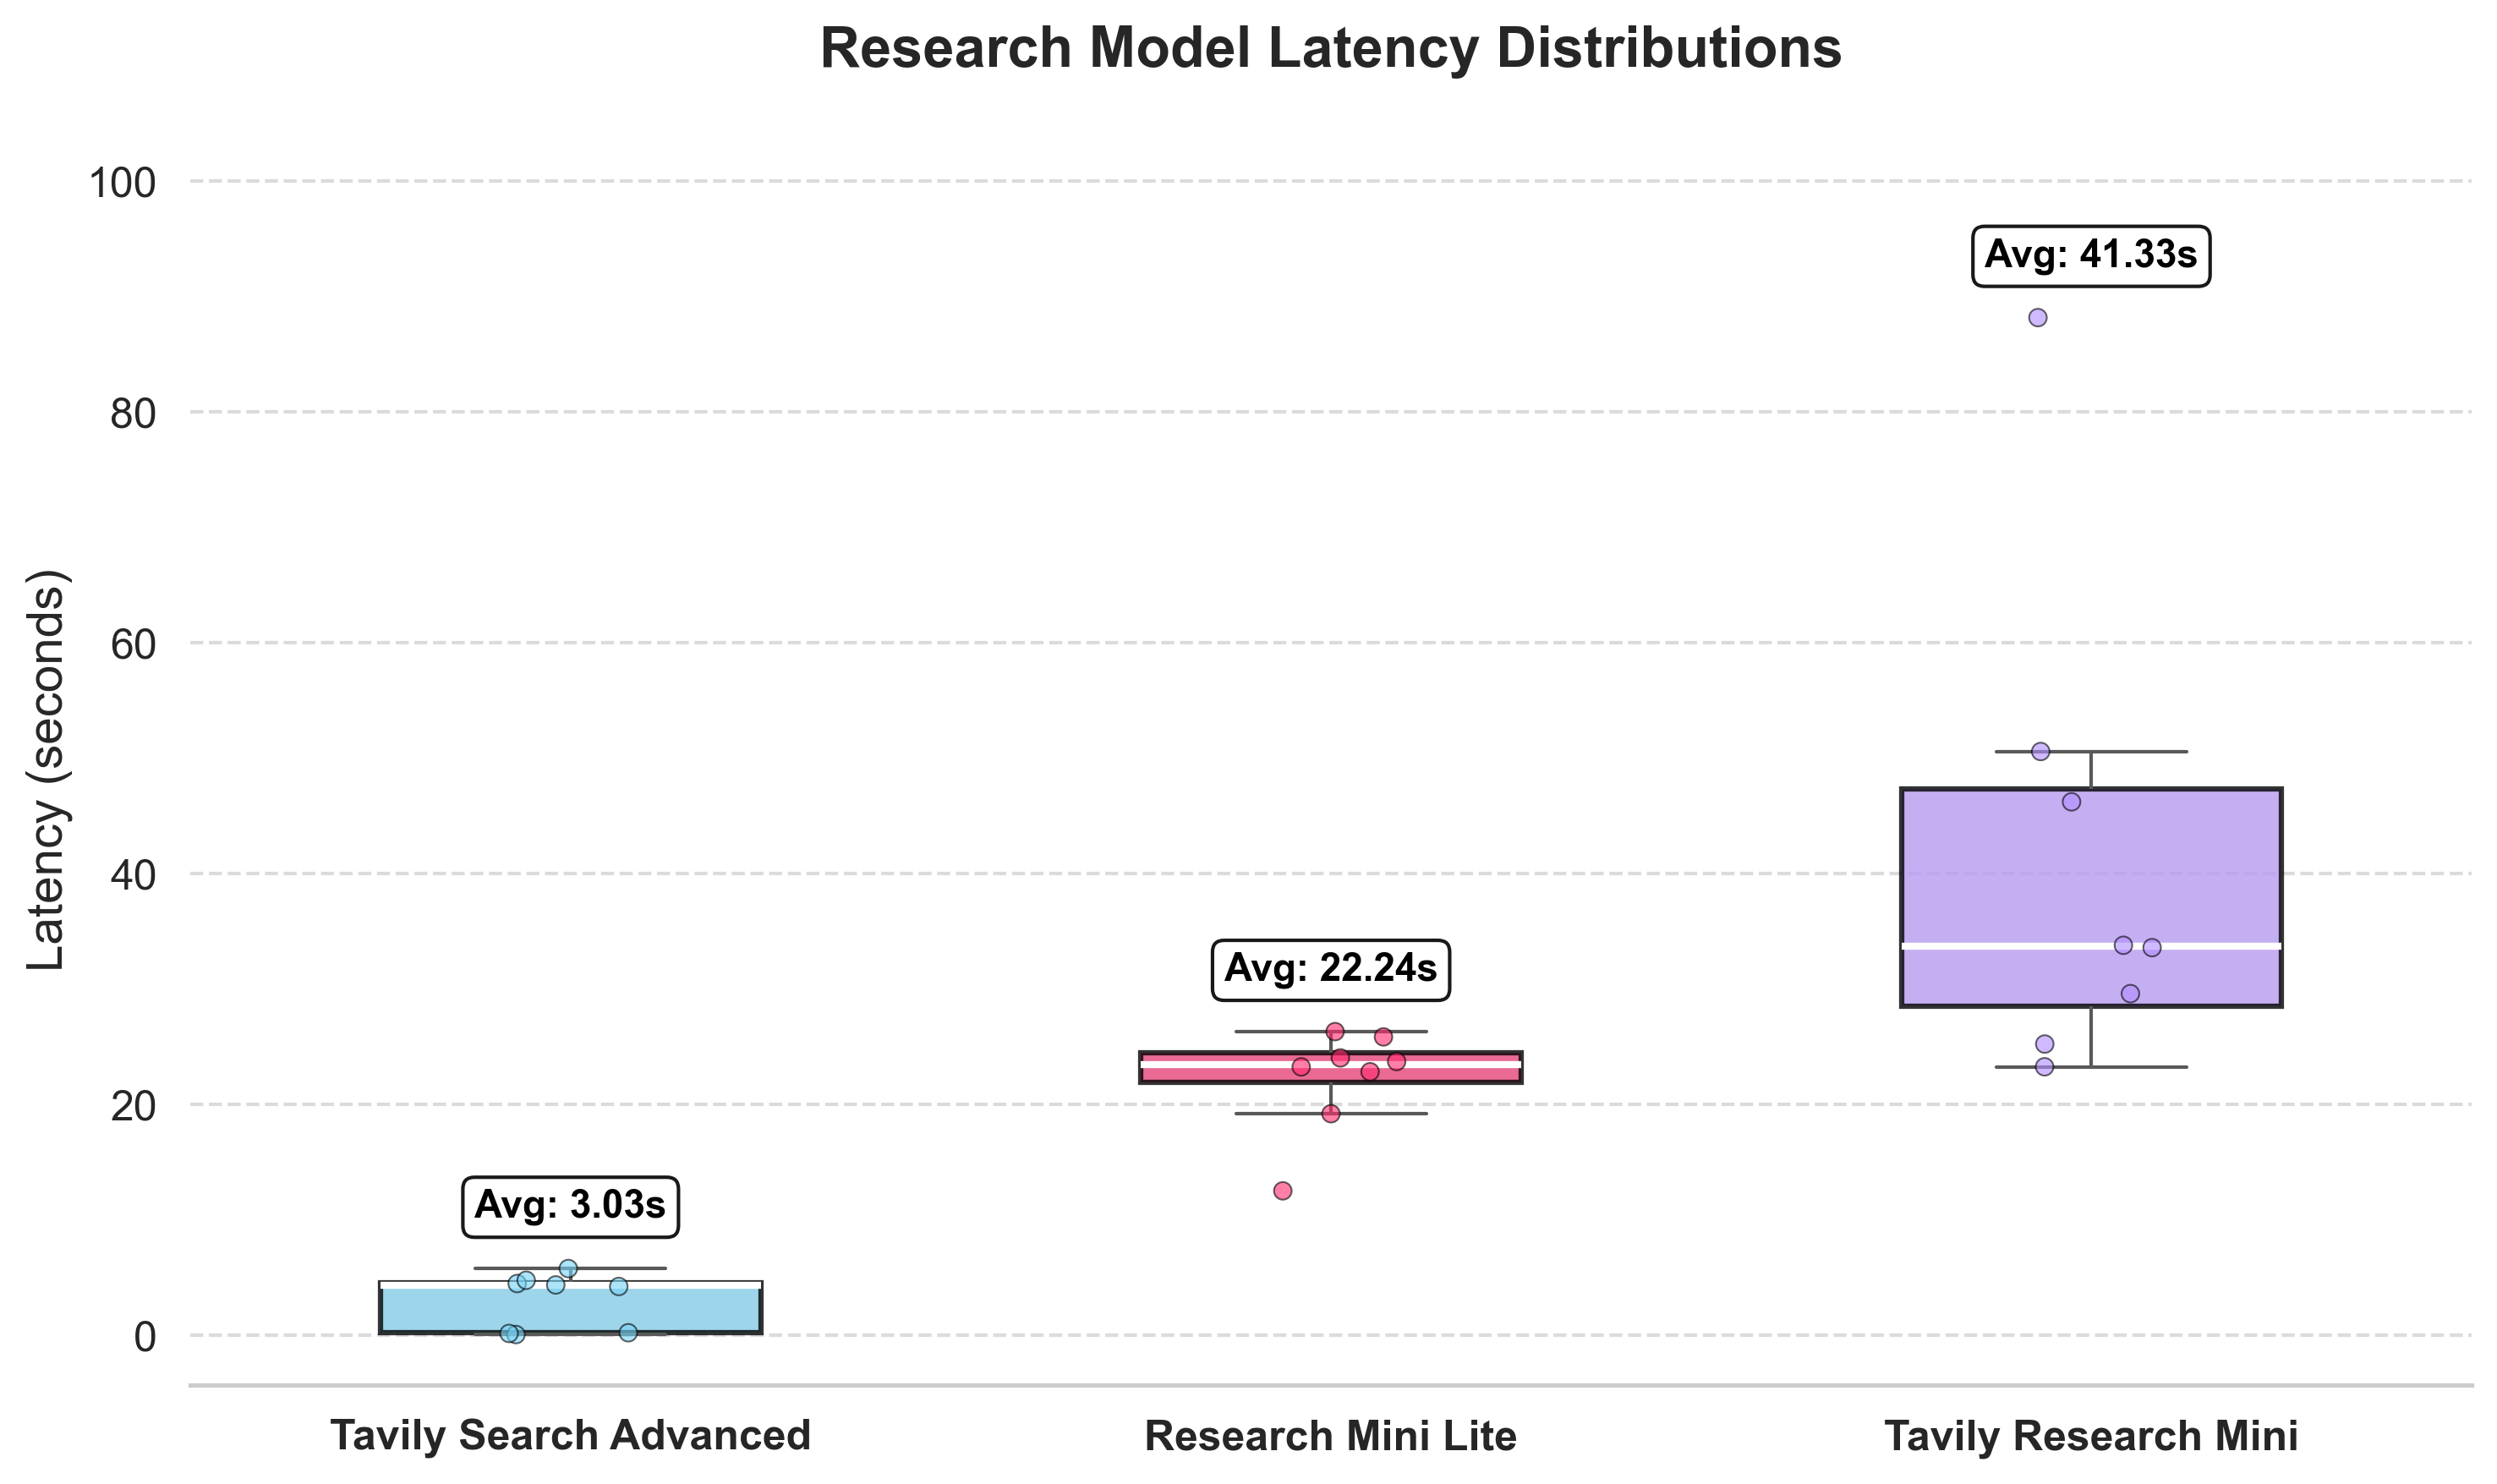
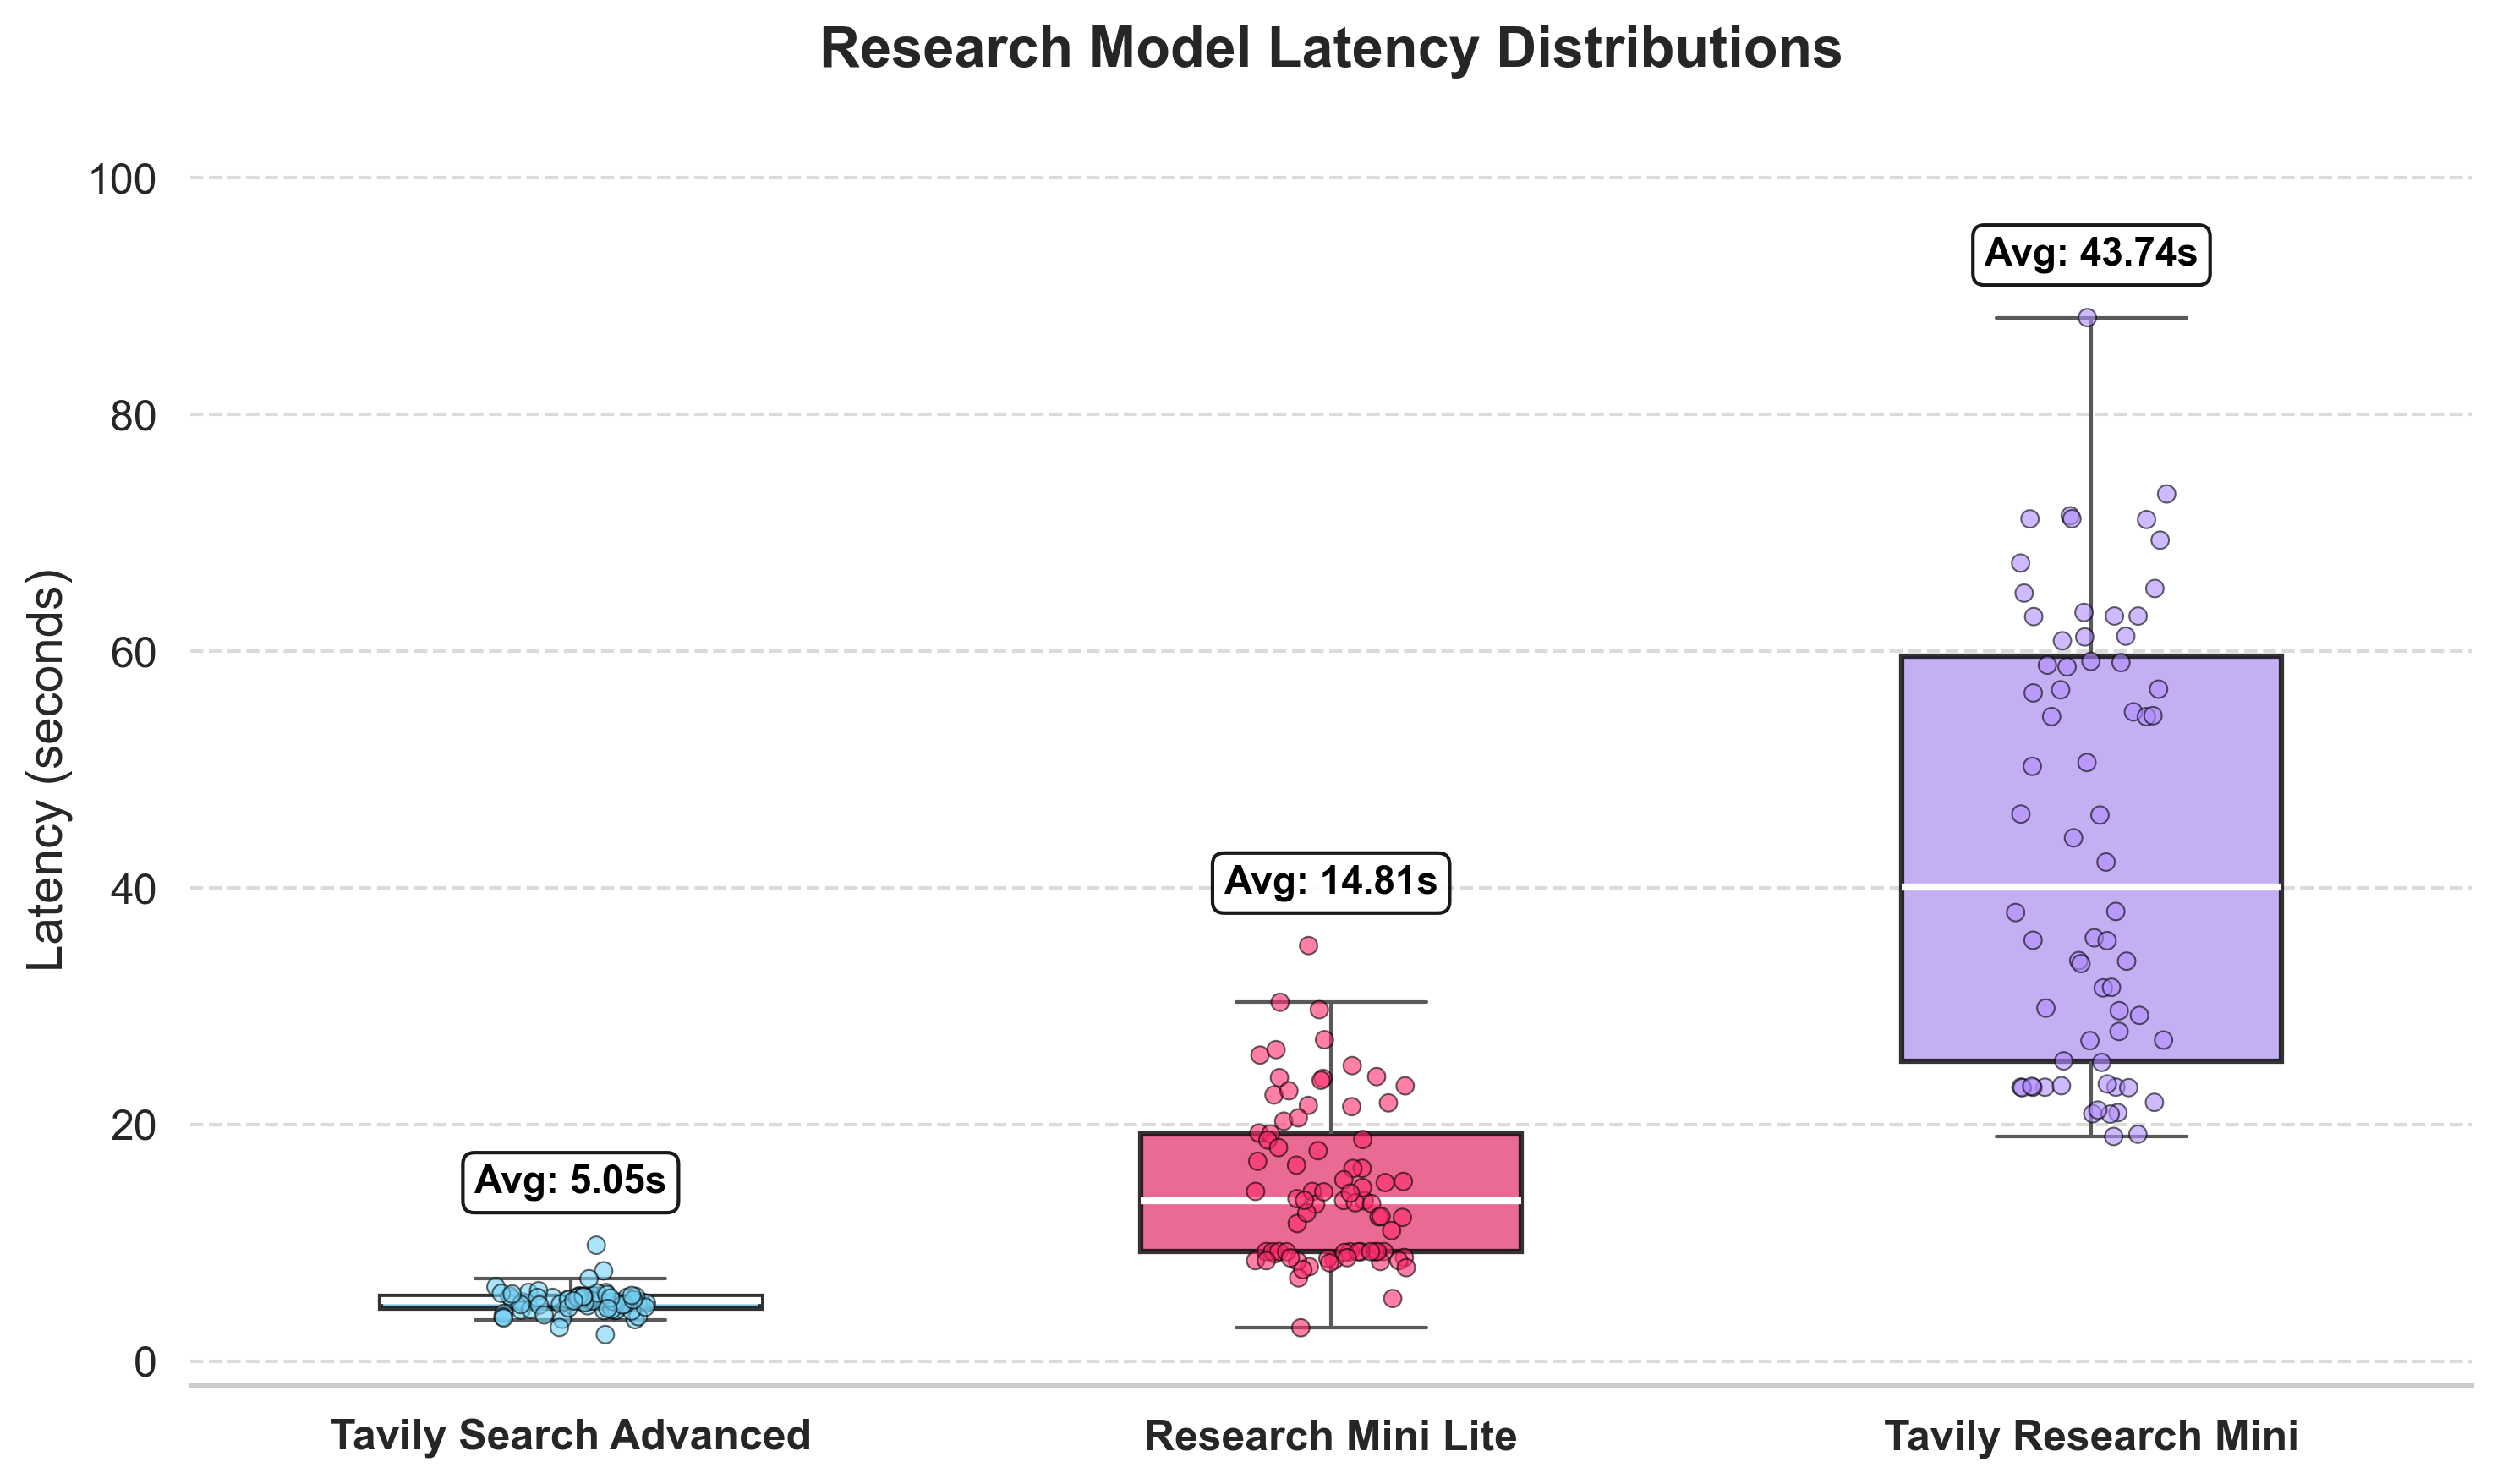
docs: add technical statement and update latency plotting utility with automated file discovery and data filtering

diff --git a/plot_latencies.py b/plot_latencies.py
@@ -5,12 +5,7 @@ import matplotlib.pyplot as plt
 import seaborn as sns
 import pandas as pd
 
-files = [
-    "eval-reports/2026-06-09_23-58-22.json",
-    "eval-reports/2026-06-10_00-00-17.json",
-    "eval-reports/2026-06-10_00-02-33.json",
-    "eval-reports/2026-06-10_09-43-06.json"
-]
+files = glob.glob("eval-reports/*.json")
 
 data_records = []
 
@@ -21,7 +16,8 @@ for file in files:
             for res in item.get('results', []):
                 provider = res.get('provider')
                 latency = res.get('latency_seconds')
-                if provider and latency is not None:
+                # Filter out 0-second points (failed or cached runs)
+                if provider and latency is not None and latency > 1.0:
                     data_records.append({
                         "Model": provider,
                         "Latency (s)": latency

diff --git a/TECHNICAL_STATEMENT.md b/TECHNICAL_STATEMENT.md
@@ -1,0 +1,18 @@
+# Motivation & Approach
+
+## Thought Process
+While building the [RAG Research Extension](https://github.com/RobertTylman/RAG-Research-Extension), the need for a balanced research pipeline became apparent. I identified two critical gaps in the existing ecosystem:
+
+1. **Research Mini is too slow for conversational UI**: While incredibly thorough, its standard execution time (30s–180s) introduces too much friction for continuous, interactive use.
+2. **Search Advanced is too thin for complex schemas**: The standard fast search endpoint (~1–5s) lacks the multi-hop reasoning necessary to synthesize diverse sources and return deeply structured reports.
+
+## The Thesis
+Customers want deeply structured outputs and multi-hop reasoning capabilities, but they do not want to pay the high latency and cost penalties associated with a full Research Mini run.
+
+## The Solution
+A middle-ground product: **Tavily Research Mini Lite**. 
+
+## Value Created
+By compiling a bounded LangGraph agent loop that uses parallelized, single-hop Tavily `/search` calls and a post-hoc structured extraction, Research Mini Lite hits the "goldilocks zone." 
+
+From both a technical and business perspective, it delivers synthesized, multi-hop, and structured research outputs while targeting a **~15 second** latency. This achieves the perfect midpoint between existing products, empowering conversational integrations to remain snappy while offering rigorous, structured intelligence.